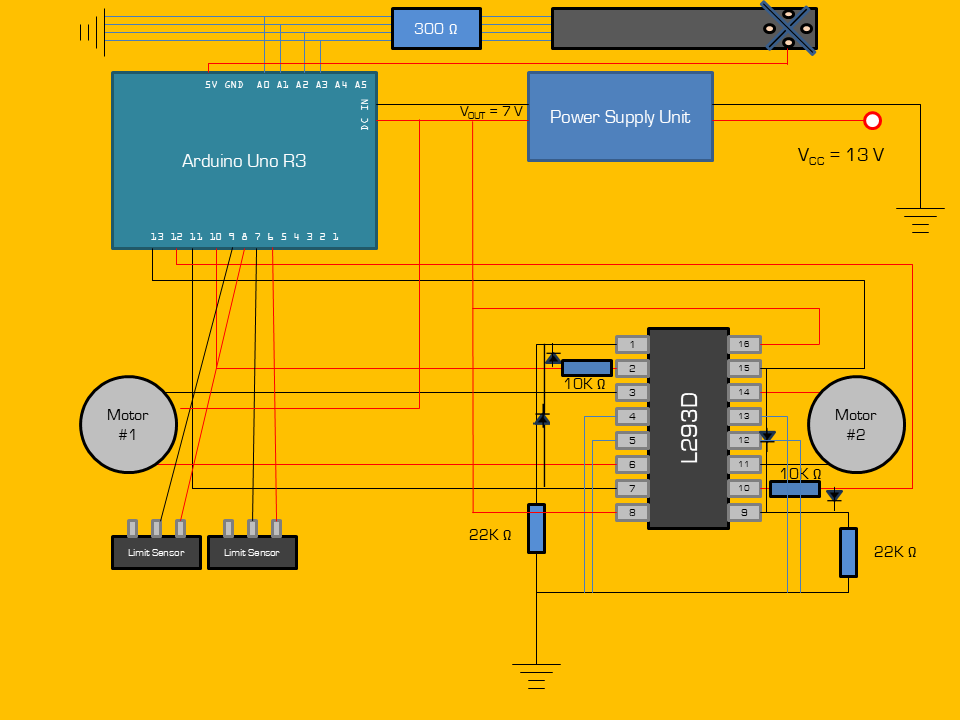
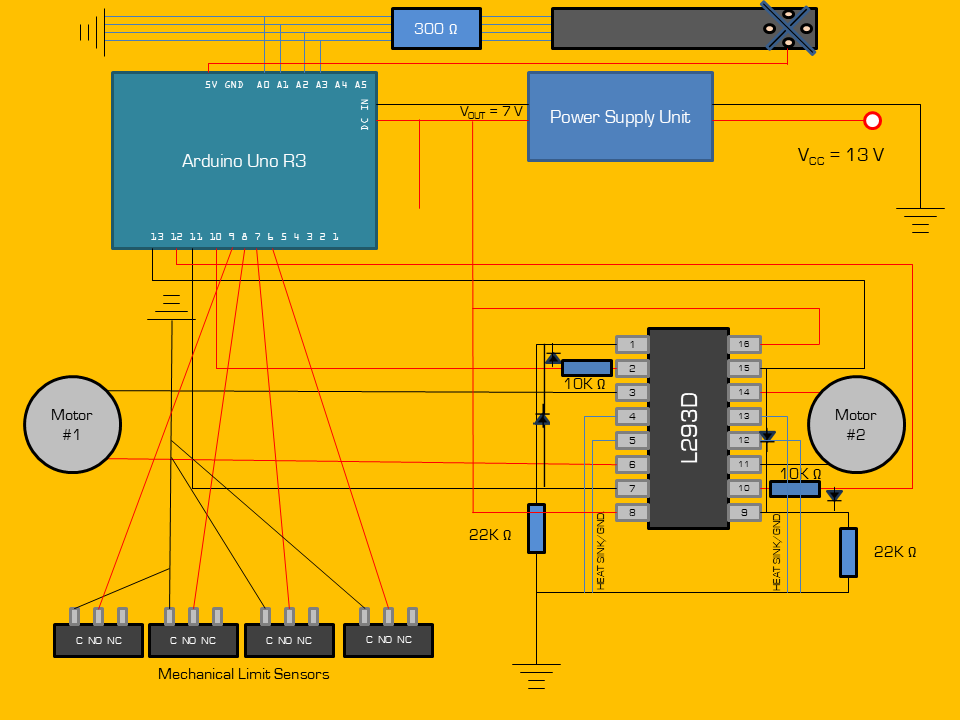
Update arduino.html content

diff --git a/arduino.html b/arduino.html
@@ -31,6 +31,10 @@
             h2 {
                 color: lightgreen;
             }
+
+            img {
+                object-fit: contain;
+            }
             
         </style>
     </head>
@@ -325,7 +329,7 @@
             </div>
             <p>The graph above illustrates the current (in A) produced by the solar panel, measured at 30 minute intervals. We used a power meter, which logs the voltage of the 
                 battery, along with the current draw. By subtracting the known load we placed (which consisted of a lamp and an inverter) by the current drawn shown on the 
-                power meter, we obtain the amount of current produced by the solar panel with each charging method.
+                power meter, we obtain the amount of energy produced by the solar panel with each charging method.
             </p>
             <div style="background-color: navy; width: 80%; margin: auto; padding: 2%;">
                 <h3 style="font-size: 20px;">Total Current Production (in Ah) of Solar Panel from 6:45 AM to 6:15 PM</h2>
@@ -343,21 +347,23 @@
                 </table>
             </div>
             <p>Using a midpoint Riemann sum to approximate the total energy produced by the solar panel in both conditions, we discover that the solar panel 
-                in the fixed position produced <strong>52.6%</strong> more energy compared to when it is mounted in 
+                in the fixed position produced <strong>52.6%</strong>* more energy compared to when it is mounted in 
                 a fixed position at 29&deg;, optimal for the entire year.
             </p>
-            <p>In addition, the single axis tracker produced only <strong>2.5%</strong> less energy than dual axis tracker produced, 
+            <p>In addition, the single axis tracker produced only <strong>2.5%</strong>* less energy than dual axis tracker produced, 
                 which is impressive considering that it only had one axis to operate on. 
             </p>
-            <p>However, the results of the test contain limitations. Because the test was conducted during the summer, the difference between 
-                the fixed panel and single-axis tracker is significantly exaggerated, due to the single-axis tracker not being longitudinally tilted at all, 
+            <div class="limitations" style="background-color: darkred; width: 80%; margin: auto; padding: 2%;">
+                <h3 style="font-size: 20px; font-family: 'Lato_Bold'; text-align: left;"> &#9888; LIMITATIONS OF THIS EXPERIMENT</h3>
+                <p>Because the test was conducted during the summer, the difference between the fixed panel and single-axis tracker is significantly exaggerated, due to the single-axis tracker not being longitudinally tilted at all, 
                 whereas the fixed panel was rotated 29&deg; longitudinally, which is nearly the optimal position for capturing sunlight for all seasons in a year. 
                 During the summer, the sun is more longitudinally centered, causing the single axis tracker to produce over 50% more energy compared to the 
                 fixed panel. This also explains why the difference between the single and dual axis tracker is miniscule: <strong>there was little need for adjustments in the longitudinal direction</strong>, 
                 which means that in the winter, when the sun is further to the South, the differences between the two trackers will be significantly more pronounced.
             </p>
+            </div>
             <p>Overall, the best conclusion to draw from this data is that the dual-axis solar tracking system is the best for increasing a solar panel's energy production. However, a single-axis tracker system is 
-            usually more cost-efficient and practical while also increasing energy production by a similar factor as a dual-axis system.</p>
+            usually more cost-efficient and practical while also increasing energy production by a comparable factor as a dual-axis system.</p>
         <div class="cInfo">
             <p style="text-align: center; font-family: 'Wevli Regular', system-ui;">Copyright &copy; 2026 Luke Jiang. All Rights Reserved.</p>
             <a href="mailto:ljiang9020@gmail.com" style="text-align: center; color: white;"><p style="font-family: 'Wevli Regular', system-ui;">Contact me!</p></a>

diff --git a/index.html b/index.html
@@ -21,16 +21,16 @@
         <div class="pTitle">
             <br><h1>Solar Tracking Project</h1><br>
         </div>
-        <h2>Project Description</h2>
+        <h2>Objective</h2>
         <p><strong>Build</strong> a device that will automatically move a solar panel along two axes such that it is perpendicular to the sun. There are two photoresistors that increase/decrease resistance depending on quantity of light received. This allows for the maximum possible energy to be delivered to the solar panel. Left/right and up/down servo motors will be utilized in order to manipulate the position of the solar panel with respect to the sun.</p>
         <h2>Materials Required</h2>
         <p>You can find the required materials <a href="Components List.xlsx">here</a>.</p>
         <h2>Why Build This?</h2>
         <p>Most solar panels are <strong>fixed</strong>, meaning that the amount of power generated from the panels depends on the position of the sun. This creates inefficiencies in power generation and consumption, which could be solved through creating a solar tracking system.</p>
-        <p>When a solar panel is misaligned with the sun (not perpendicular), the power generated from the solar panel begins to drop off. The power drop off is modeled by the equation LOSS = 1 - cos(i), where i is the angle between the top of the solar panel and the sun.</p>
+        <p>When a solar panel is misaligned with the sun (not perpendicular), the power generated from the solar panel begins to drop off. The power drop off is modeled by the equation <i>LOSS = 1 - cos(i)</i>, where i is the angle between the top of the solar panel and the sun.</p>
         <div class="center"><img src="imgs/SolarPanel_alignment.png" width="640" height="480"></div>
         <div class="center"><p>By <a href="https://en.wikipedia.org/wiki/User:Anmclarke" class="extiw" title="en:User:Anmclarke">Anmclarke</a> at <a class="external text" href="https://en.wikipedia.org">en.wikipedia</a>, <a href="https://creativecommons.org/licenses/by-sa/3.0" title="Creative Commons Attribution-Share Alike 3.0">CC BY-SA 3.0</a>, <a href="https://commons.wikimedia.org/w/index.php?curid=47214085">Link</a></p></div>
-        <p>With a solar tracking system, the power loss can be eliminated, as the servo motors will constantly adjust to ensure that the maximum possible power is generated.</p>
+        <p>With a solar tracking system, the power loss can be significantly reduced, as the servo motors will constantly adjust to ensure that the maximum possible power is generated.</p>
         <p>Click the button below to see my solar tracker design!</p>
         <div class="center"><a href="arduino.html"><button><strong>BUILDING THE SOLAR TRACKER</strong></button></a></div><br>
         <div class="cInfo">
